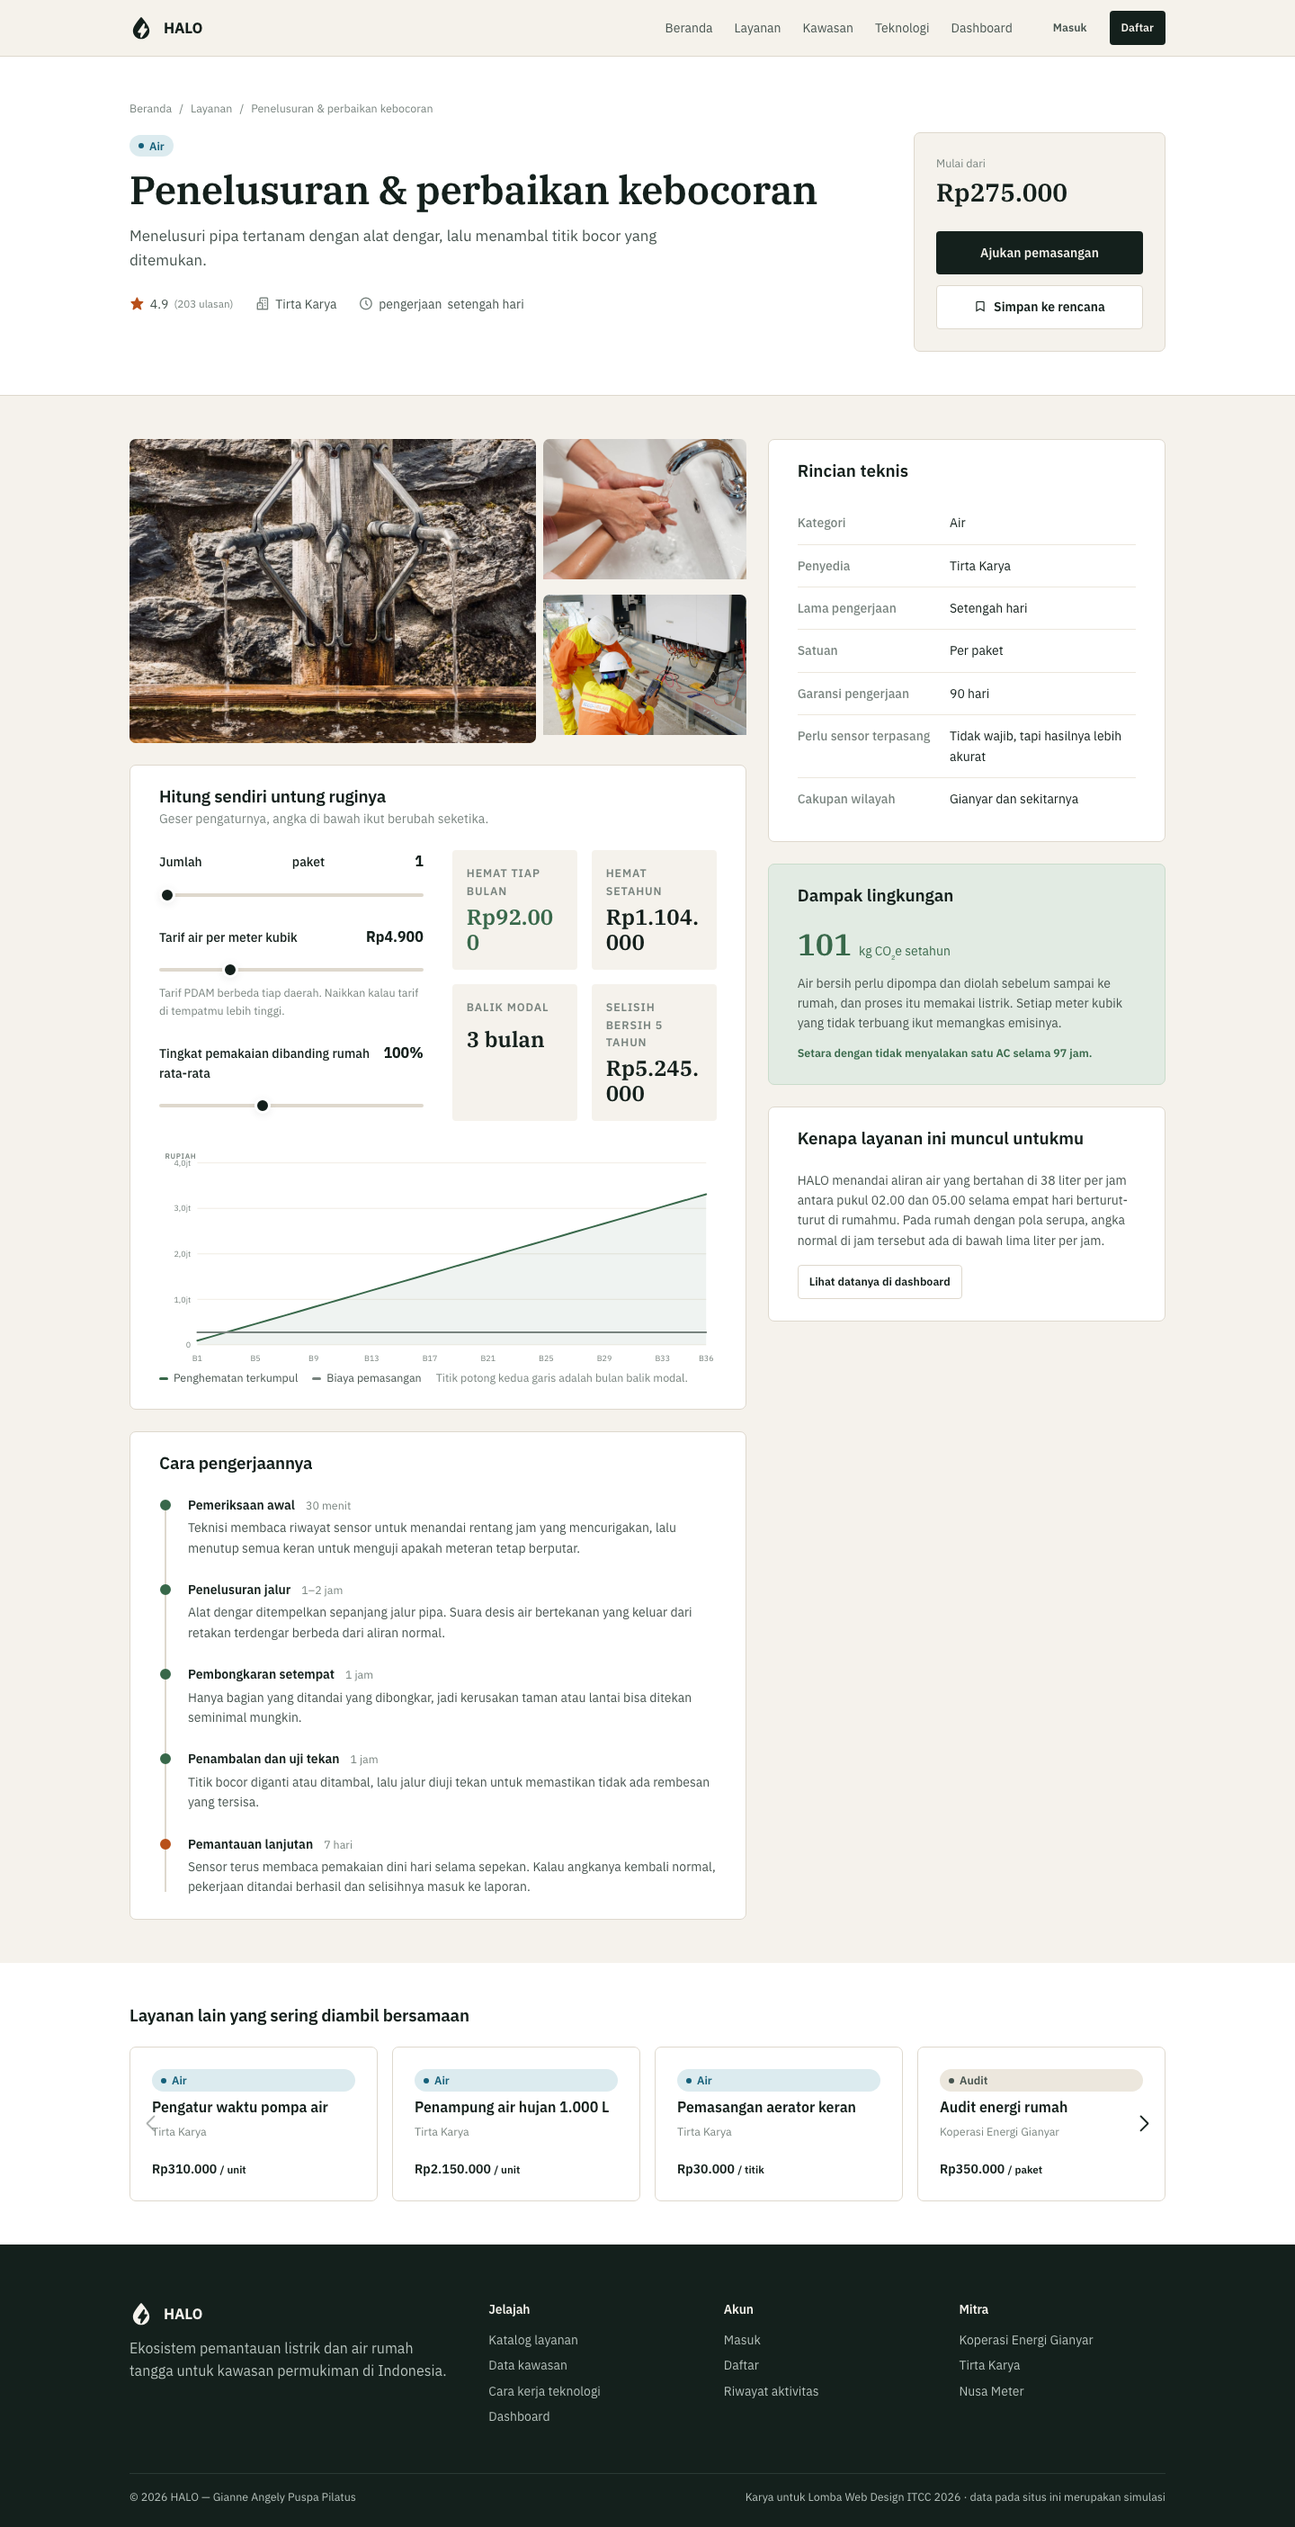
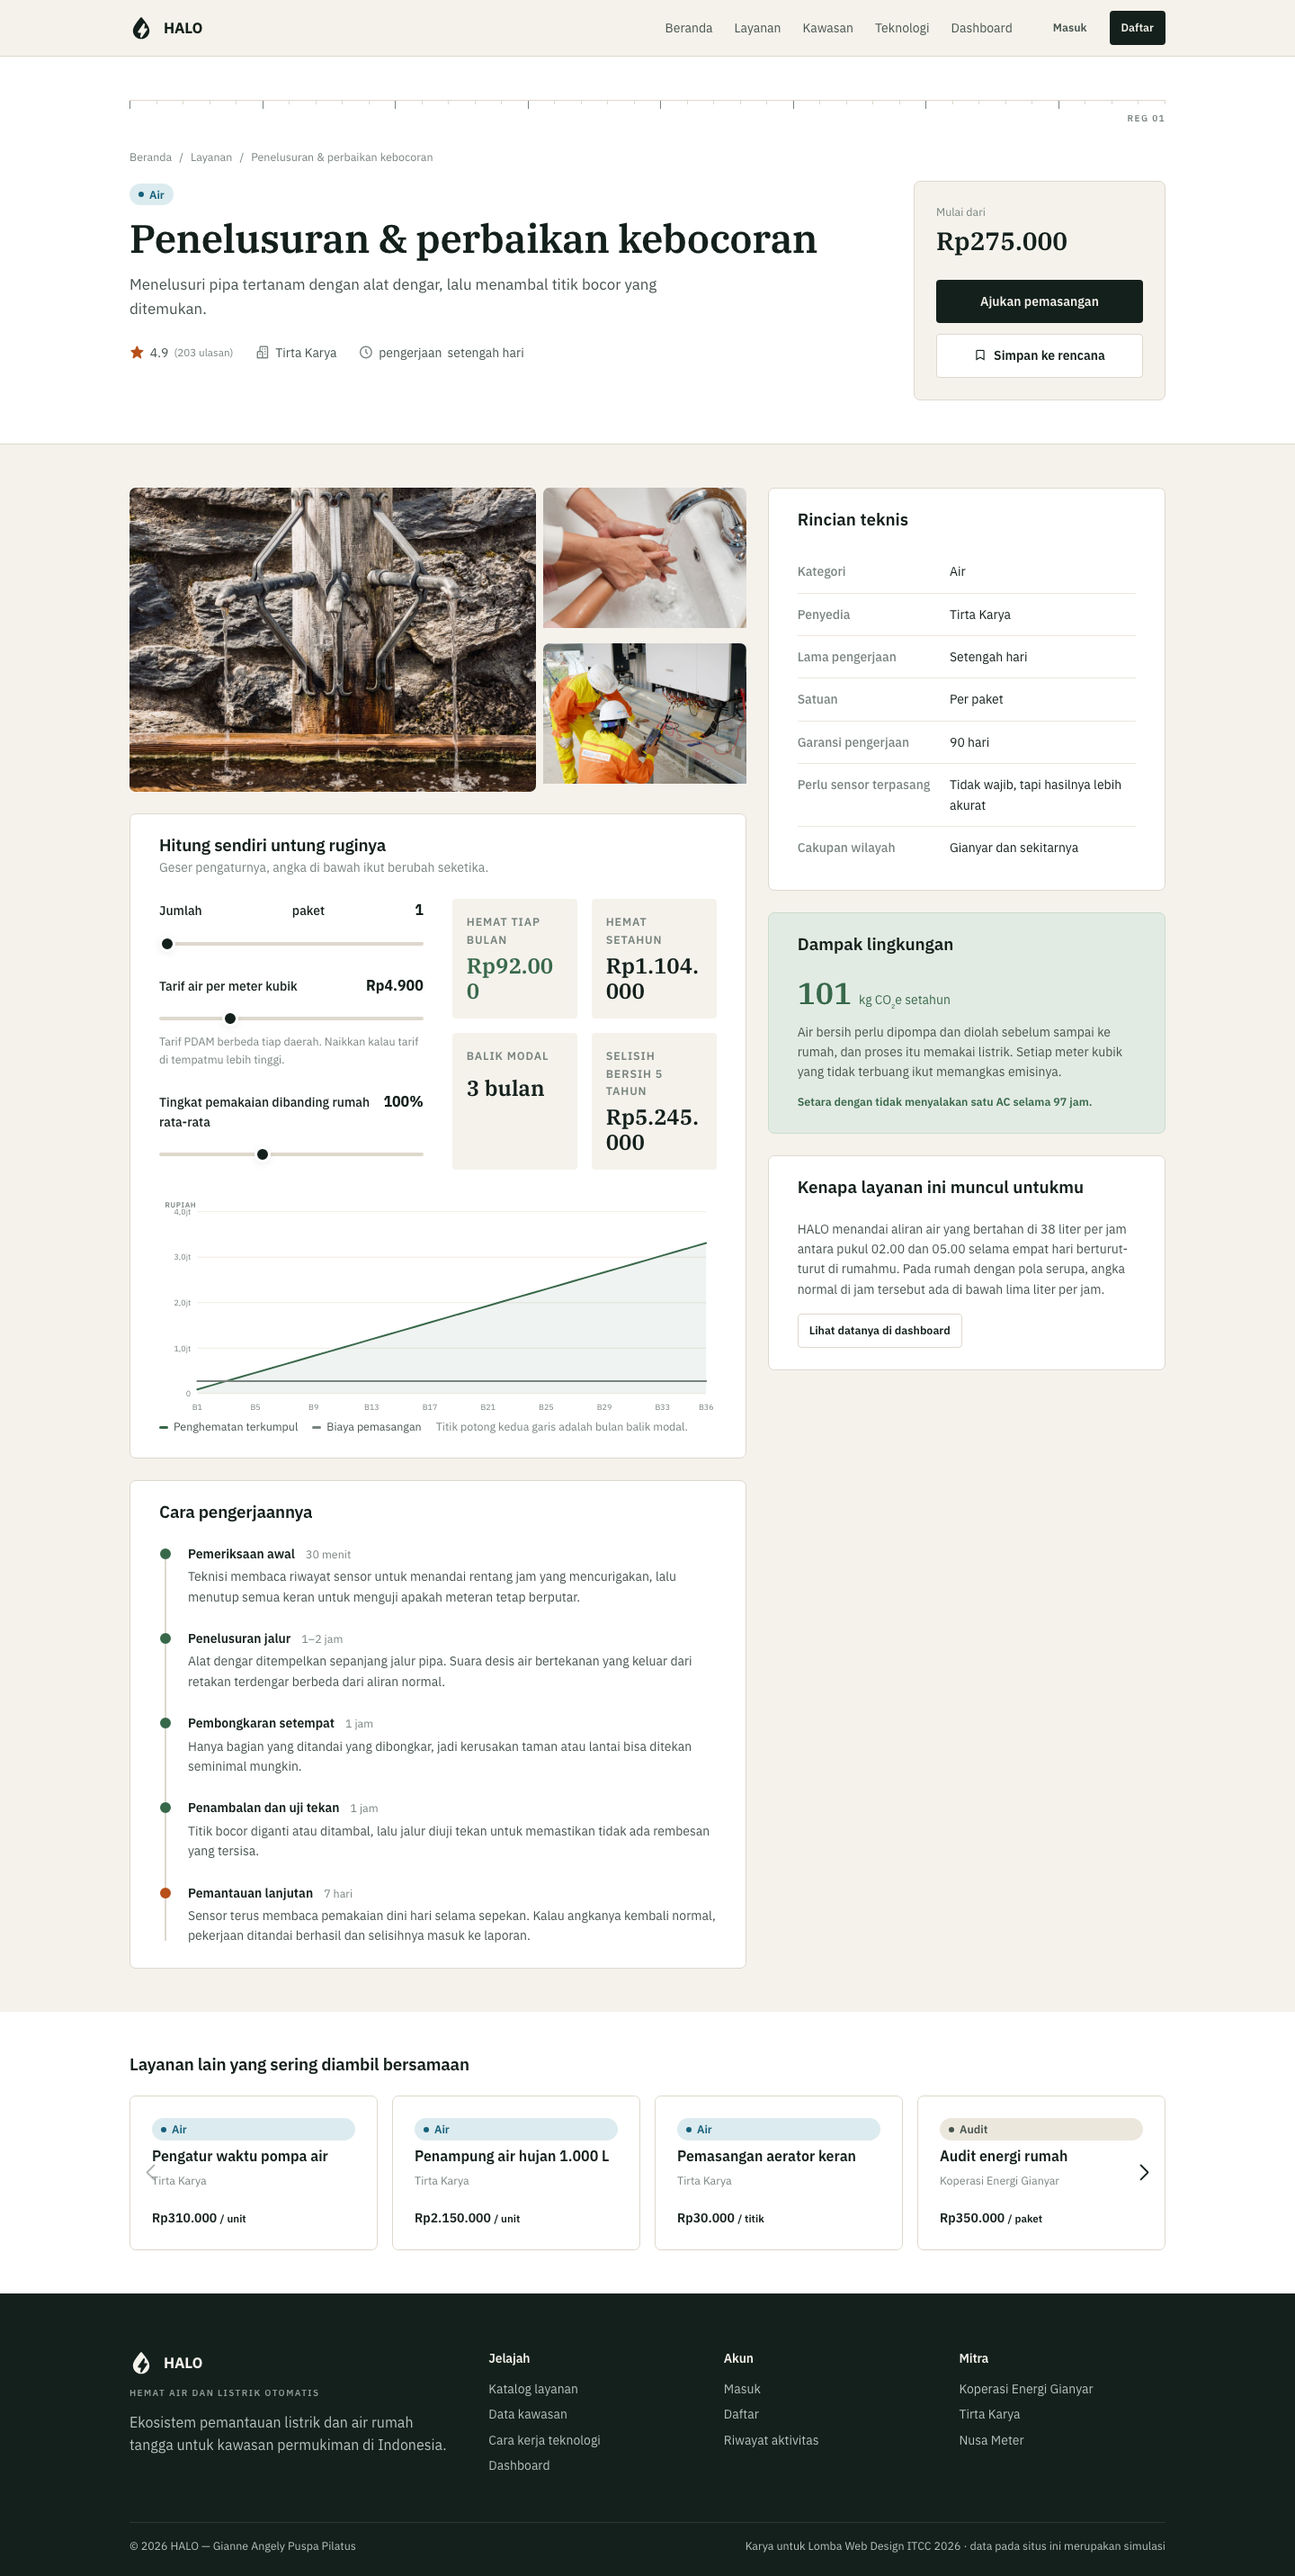
Screenshot direkam ulang dan catatan desain menyesuaikan arah baru

diff --git a/CATATAN-DESAIN.md b/CATATAN-DESAIN.md
@@ -36,13 +36,18 @@ backend.
 
 ## 2. Nama dan logo
 
-**HALO** = *Home And Living Optimizer*. Kata "halo" juga berarti lingkaran cahaya,
-dan dalam bahasa Indonesia dipakai sebagai sapaan — cocok untuk platform yang
-bicara langsung ke pemilik rumah.
+**HALO = Hemat Air dan Listrik Otomatis.** Kepanjangannya berbahasa Indonesia dan
+ditulis di empat tempat: plat di beranda tepat di atas judul, plat yang sama di
+puncak kedua panel halaman masuk, baris kecil di kaki kedelapan halaman, dan di
+judul serta deskripsi halaman.
+
+Pada plat itu huruf **A** diwarnai biru air dan huruf **L** diwarnai oranye listrik.
+Jadi plat namanya sekaligus mengajarkan kode warna seluruh situs sebelum warna itu
+muncul di grafik mana pun. Ini jawaban kalau juri bertanya kenapa dua warna itu yang
+dipakai.
 
 > **Sudah dicek:** guidebook ITCC 2026 tidak mengatur nama karya maupun bahasanya.
-> Aturan penamaan yang ada hanya menyangkut nama folder pengumpulan. Jadi nama
-> HALO tidak melanggar apa pun.
+> Aturan penamaan yang ada hanya menyangkut nama folder pengumpulan.
 
 **Logo.** Bentuknya satu tetesan air, dan ruang kosong di dalamnya membentuk
 petir. Jadi dua hal yang dipantau HALO — air dan listrik — menyatu dalam satu
@@ -56,6 +61,39 @@ Arah bentuknya dicari lewat Gemini, lalu digambar ulang sendiri sebagai SVG
 bersih — keluaran generator berupa raster dan pecah kalau diperbesar.
 
 ---
+
+## 2b. Arah desain: situs sebagai alat ukur
+
+Versi pertama situs ini terlihat rapi tapi biasa — seperti brosur institusional yang
+bercerita *tentang* meteran. Arahnya diubah: **situs ini berhenti bercerita dan mulai
+berlaku sebagai alat ukur.**
+
+Tiga benda yang membawa arah itu:
+
+**1. Grafik cermin dua aliran** — tokoh utama layar pertama, menggantikan foto rumah.
+Satu sumbu jam 00–23 di tengah. Listrik naik ke atas dalam watt, air turun ke bawah
+dalam liter per jam. Keduanya berskala sendiri-sendiri; kalau dipaksa berbagi satu
+sumbu, kurva air akan gepeng menempel dasar karena besarannya jauh berbeda. Bentuk
+cermin itulah yang menjelaskan produknya tanpa perlu dibaca: dua hal masuk ke rumah,
+HALO membaca keduanya per jam. Garis putus-putus merah di jam 02–05 menandai 38 liter
+per jam sebelum kebocoran ditambal — satu titik yang menyampaikan urgensi.
+Kodenya `Grafik.aliranGanda()` di `js/grafik.js`.
+
+**2. Plat HALO** — lihat bagian 2 di atas.
+
+**3. Pita ukur bertakik** — pita 30px bernomor register di atas tiap kepala bagian.
+Takiknya elemen `<i>` sungguhan yang diisi `js/app.js`, bukan gradasi berulang, karena
+gradasi tidak dipakai di mana pun. Bentuk dasarnya garis biasa yang ditulis di CSS,
+jadi pita tetap ada kalau JavaScript mati.
+
+### Aturan konsistensi yang diberlakukan
+
+- **Kartu** — satu bentuk untuk seluruh situs: pita kepala, gambar, badan, kaki. Tanpa bayangan.
+- **Gambar** — dalam satu kisi, semua bergambar atau tidak sama sekali. Tidak pernah campur.
+  Rasio dikunci 16/10 untuk kartu layanan. Sudut foto nol.
+- **Kolom** — hanya dua lebar di seluruh situs, 5/12 dan 7/12, sisi lebarnya berselang-seling.
+- **Rata atas** — semua kepala bagian dan kartu memakai `align-items: start`.
+- **Angka** — huruf tabular, satuan berdiri sendiri, dan tiap angka besar punya satu baris pembanding.
 
 ## 3. Warna
 
